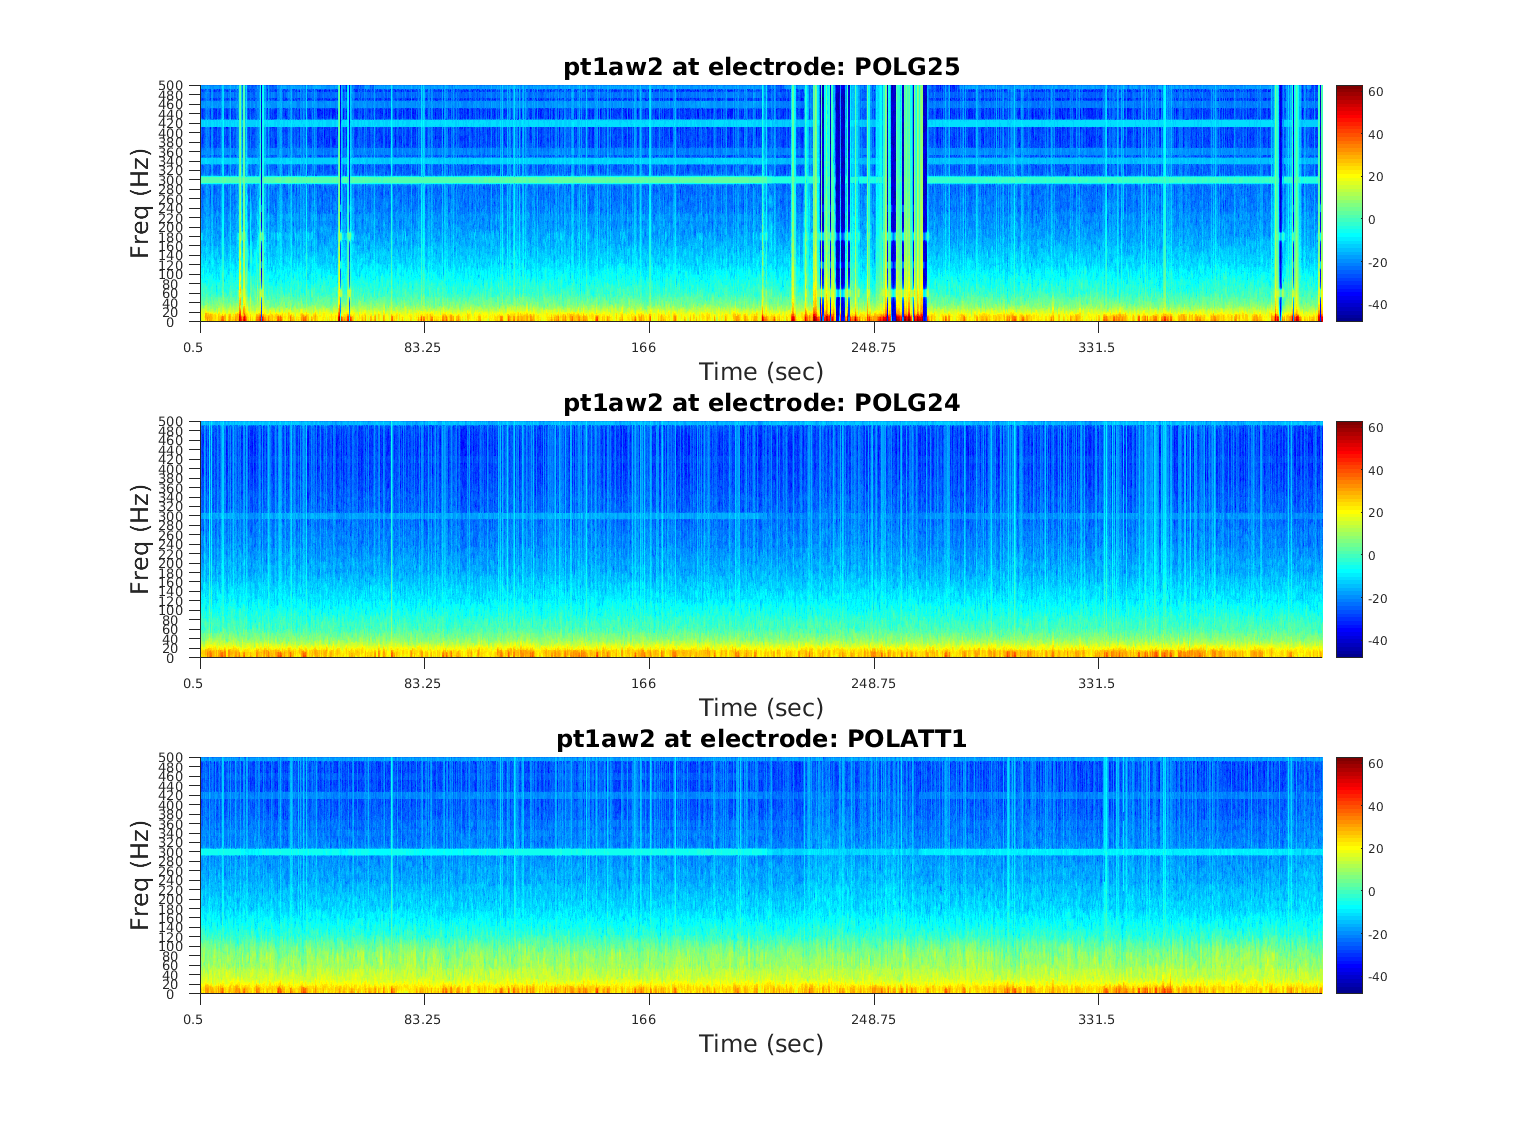
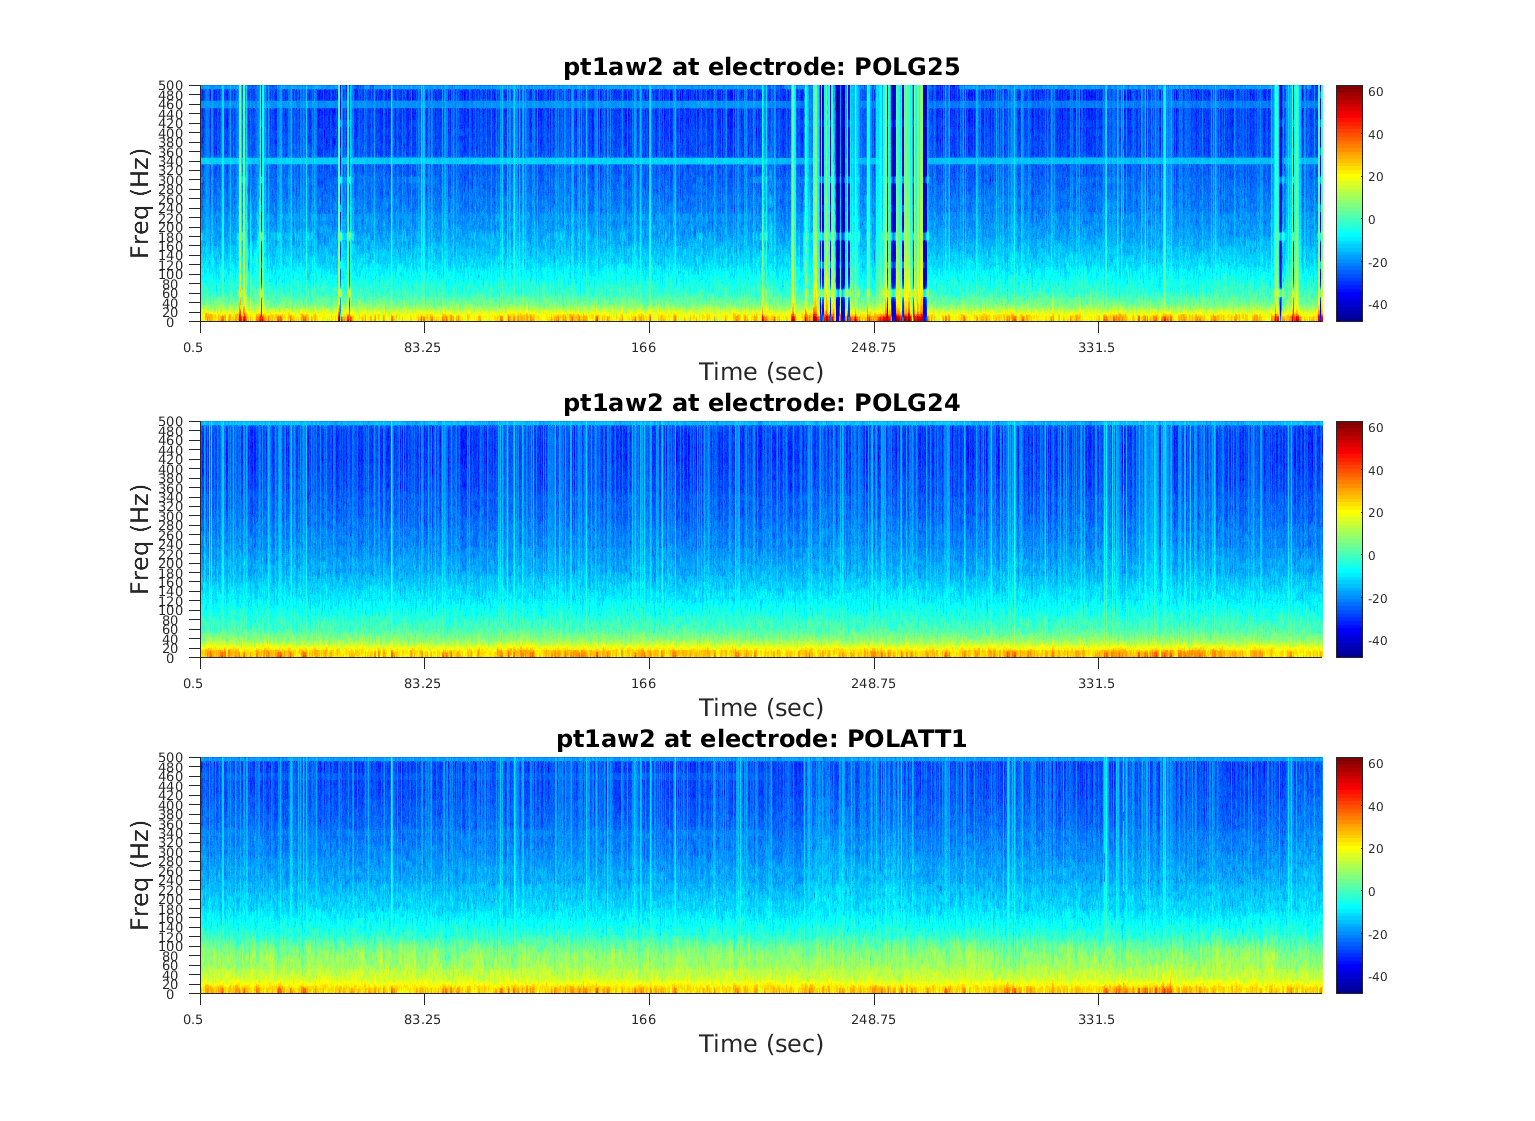
Adding commit on implementing a broad band filter.

diff --git a/fragility_dataanalysis/server/devVaryingWindows/runSignalPreprocessing.m b/fragility_dataanalysis/server/devVaryingWindows/runSignalPreprocessing.m
@@ -1,0 +1,215 @@
+% function: computeSpectralPower
+% By: Adam Li | 3/21/17
+% Description: Used to compute power for an eeg wave
+%
+%
+function runSignalPreprocessing(patient, typeTransform)
+    if nargin==0
+        patient = 'pt1aw2';
+        typeTransform = 'fourier';
+    end
+
+    %% Initialization
+    % data directories to save data into - choose one
+    eegRootDirServer = '/home/ali/adamli/fragility_dataanalysis/';     % work
+    % eegRootDirHome = '/Users/adam2392/Documents/MATLAB/Johns Hopkins/NINDS_Rotation';  % home
+    eegRootDirHome = '/Volumes/NIL_PASS/';
+    eegRootDirJhu = '/home/WIN/ali39/Documents/adamli/fragility_dataanalysis/';
+    % Determine which directory we're working with automatically
+    if     ~isempty(dir(eegRootDirServer)), rootDir = eegRootDirServer;
+    elseif ~isempty(dir(eegRootDirHome)), rootDir = eegRootDirHome;
+    elseif ~isempty(dir(eegRootDirJhu)), rootDir = eegRootDirJhu;
+    else   error('Neither Work nor Home EEG directories exist! Exiting'); end
+
+    addpath(genpath(fullfile(rootDir, '/fragility_library/')));
+    addpath(genpath(fullfile(rootDir, '/eeg_toolbox/')));
+    addpath(rootDir);
+
+    %- 0 == no filtering
+    %- 1 == notch filtering
+    %- 2 == adaptive filtering
+    FILTER_RAW = 2; 
+    winSize = 500;
+    stepSize = 250;
+
+    % set patientID and seizureID
+    patient_id = patient(1:strfind(patient, 'seiz')-1);
+    seizure_id = strcat('_', patient(strfind(patient, 'seiz'):end));
+    seeg = 1;
+    if isempty(patient_id)
+        patient_id = patient(1:strfind(patient, 'sz')-1);
+        seizure_id = patient(strfind(patient, 'sz'):end);
+        seeg = 0;
+    end
+    if isempty(patient_id)
+        patient_id = patient(1:strfind(patient, 'aslp')-1);
+        seizure_id = patient(strfind(patient, 'aslp'):end);
+        seeg = 0;
+    end
+    if isempty(patient_id)
+        patient_id = patient(1:strfind(patient, 'aw')-1);
+        seizure_id = patient(strfind(patient, 'aw'):end);
+        seeg = 0;
+    end
+    buffpatid = patient_id;
+    if strcmp(patient_id(end), '_')
+        patient_id = patient_id(1:end-1);
+    end
+
+    % array of frequency bands
+    freqBandAr(1).name    = 'delta';
+    freqBandAr(1).rangeF  = [2 4];          %[2 4]
+    freqBandAr(2).name    = 'theta';
+    freqBandAr(2).rangeF  = [4 8];          %[4 8]
+    freqBandAr(3).name    = 'alpha';
+    freqBandAr(3).rangeF  = [8 16];         %[8 12]
+    freqBandAr(4).name    = 'beta';
+    freqBandAr(4).rangeF  = [16 32];        %[12 30]
+    freqBandAr(5).name    = 'low gamma';
+    freqBandAr(5).rangeF  = [32 80];        %[30 70]
+    freqBandAr(6).name    = 'high gamma';
+    freqBandAr(6).rangeF  = [80 160];       %[70 150]
+    freqBandAr(7).name    = 'HFO';
+    freqBandAr(7).rangeF  = [160 400];      %[150 400]
+
+
+    % set the frequency bands to certain ranges for plotting
+    for iFB=1:length(freqBandAr),
+        freqBandAr(iFB).centerF = mean(freqBandAr(iFB).rangeF);
+        %freqBandAr(iFB).label   = sprintf('%s-%.0fHz', freqBandAr(iFB).name(1:[ min( [length(freqBandAr(iFB).name), 6] )]), freqBandAr(iFB).centerF);
+        freqBandAr(iFB).label   = sprintf('%s [%.0f-%.0f Hz]', freqBandAr(iFB).name, freqBandAr(iFB).rangeF);
+    end
+    
+    %% DEFINE OUTPUT DIRS AND CLINICAL ANNOTATIONS
+    %- Edit this file if new patients are added.
+    [included_channels, ezone_labels, earlyspread_labels,...
+        latespread_labels, resection_labels, fs, ...
+        center] ...
+                = determineClinicalAnnotations(patient_id, seizure_id);
+    patient_id = buffpatid;
+    
+    % set directory to save computed data
+    if FILTER_RAW == 1
+        toSaveDir = fullfile(strcat('./serverdata/spectral_analysis/', typeTransform, '/notchharmonics_win', num2str(winSize), ...
+            '_step', num2str(stepSize), '_freq', num2str(fs)), patient); % at lab
+    elseif FILTER_RAW == 2
+        toSaveDir = fullfile(strcat('./serverdata/spectral_analysis/', typeTransform, '/adaptivefilter_win', num2str(winSize), ...
+            '_step', num2str(stepSize), '_freq', num2str(fs)), patient); % at lab
+    else 
+        toSaveDir = fullfile(strcat('./serverdata/spectral_analysis/', typeTransform, '/nofilter_', 'win', num2str(winSize), ...
+            '_step', num2str(stepSize), '_freq', num2str(fs)), patient); % at lab
+    end
+
+    % create directory if it does not exist
+    if ~exist(toSaveDir, 'dir')
+        mkdir(toSaveDir);
+    end
+
+    % put clinical annotations into a struct
+    clinicalLabels = struct();
+    clinicalLabels.ezone_labels = ezone_labels;
+    clinicalLabels.earlyspread_labels = earlyspread_labels;
+    clinicalLabels.latespread_labels = latespread_labels;
+    clinicalLabels.resection_labels = resection_labels;
+    
+    if seeg
+        patient = strcat(patient_id, seizure_id);
+        eegDir = fullfile(rootDir, 'data', center);
+        data_struct = load(fullfile(eegDir, patient_id, patient));
+    else
+        eegDir = fullfile(rootDir, 'data', center);
+        data_struct = load(fullfile(eegDir, patient, patient));
+    end
+    
+    [numChans, eventDurationMS] = size(data_struct.data);
+    elec_labels = data_struct.elec_labels;
+    seizure_start = data_struct.seiz_start_mark;
+    seizure_end = data_struct.seiz_end_mark;
+    data = data_struct.data;
+    tWin = 0;
+    
+    if strcmp(typeTransform, 'morlet')
+        %%- gets the range of frequencies using eeganalparams
+        waveletFreqs = eeganalparams('freqs');
+        waveletWidth = eeganalparams('width');
+        transformArgs.waveletWidth = waveletWidth;
+        transformArgs.waveletFreqs = waveletFreqs;
+    elseif strcmp(typeTransform, 'fourier')
+        transformArgs.winSize = 500;
+        transformArgs.stepSize = 250;
+        transformArgs.mtBandWidth = 4;
+        transformArgs.mtFreqs = [];
+    end
+    
+    %% Compute Spectral Computation
+    for iChan=1:numChans
+        eegWave = data(iChan, :);
+        
+        [powerMat, phaseMat, freqs, t_sec] = computeSpectralPower(eegWave, fs, typeTransform, transformArgs);
+        
+        powerMat = squeeze(powerMat);
+        phaseMat = squeeze(phaseMat);
+        
+        powerMatZ = zeros(size(powerMat));
+        [numFreqs, numTime] = size(powerMat);
+        iF  = 1:numFreqs; % # of freqs.
+        iT  = 1:numTime; % # of time points
+
+        %% Z-SCORE POWER MATRIX
+        % indices of the powerMat to Z-score wrt
+        for iF = 1:length(freqs),
+            allVal = reshape(powerMat(iF,iT),length(1)*length(iT),1); %allVal for particular chan and freq
+            mu = mean(allVal); stdev = std(allVal);
+
+            % create the power matrix
+            powerMatZ(iF,iT) = (powerMat(iF,iT)-mu)/stdev;
+            if sum(isnan(powerMatZ(iF,iT)))>0
+                disp('Wrong');
+                keyboard;
+            end
+        end
+     
+        %%- condense matrices
+        rangeFreqs = reshape([freqBandAr.rangeF], 2, 7)';
+        if strcmp(typeTransform, 'morlet')
+            %%- TIME BIN POWERMATZ WITH WINDOWSIZE AND OVERLAP
+            powerMat = timeBinSpectrogram(powerMat, winSize, stepSize);
+            phaseMat = timeBinSpectrogram(phaseMat, winSize, stepSize);
+
+            %%- FREQUENCY BIN WITH FREQUENCY BANDS
+%             powerMat = freqBinSpectrogram(powerMat, rangeFreqs, waveletFreqs);
+%             phaseMat = freqBinSpectrogram(phaseMat, rangeFreqs, waveletFreqs);
+        elseif strcmp(typeTransform, 'multitaper')
+            disp('doing multitaper');
+            %%- FREQUENCY BIN
+%             powerMatZ = freqBinSpectrogram(powerMatZ, rangeFreqs, waveletFreqs);
+        end
+
+        % create 2D array to show time windows occupied by each index of new
+        % power matrix
+        tWin = zeros(size(powerMat, 3), 2);
+        tWin(:,1) = 0 : stepSize : eventDurationMS-winSize;
+        tWin(:,2) = winSize : stepSize : eventDurationMS;
+
+        % create to save data struct
+        chanData = struct();
+        chanData.FILTERTYPE = FILTER_RAW;
+        chanData.eegWave = eegWaveV;
+        chanData.chanNum = iChan;
+        chanData.chanStr = elec_labels{iChan};
+        chanData.freqBands = {freqBandAr.name};
+        chanData.powerMat = squeeze(powerMat);
+        chanData.powerMatZ = squeeze(powerMatZ);
+        chanData.phaseMat = squeeze(phaseMat);
+        chanData.seizure_end = seizure_end;
+        chanData.seizure_start = seizure_start;
+        chanData.winSize = winSize;
+        chanData.stepSize = stepSize;
+        chanData.waveT = tWin;
+        chanData.freqs = freqs;
+
+        %%- SAVING DIR PARAMETERS
+        chanFileName = strcat(num2str(iChan), '_', elec_labels{iChan}, '.mat');
+        saveChannel(toSaveDir, chanFileName, chanData); 
+    end
+end

diff --git a/fragility_dataanalysis/runSpectralComputation.m b/fragility_dataanalysis/runSpectralComputation.m
@@ -143,16 +143,20 @@ for iPat=1:length(patients)
     [included_channels, ezone_labels, earlyspread_labels, latespread_labels, resection_labels, frequency_sampling, center] ...
             = determineClinicalAnnotations(patient_id, seizure_id);
         
-    if ~BP_FILTER_RAW
-        toSaveDir = fullfile(strcat('./serverdata/spectral_analysis/', typeTransform, '/nofilter_', 'win', num2str(winSize), ...
-            '_step', num2str(stepSize), '_freq', num2str(frequency_sampling)), patient); % at lab
-    else
+        
+    if BP_FILTER_RAW == 1
         toSaveDir = fullfile(strcat('./serverdata/spectral_analysis/', typeTransform, '/win', num2str(winSize), ...
             '_step', num2str(stepSize), '_freq', num2str(frequency_sampling)), patient); % at lab
-    end
-    toSaveDir = fullfile(strcat('./serverdata/spectral_analysis/', typeTransform, '/notchharmonics_win', num2str(winSize), ...
+        toSaveDir = fullfile(strcat('./serverdata/spectral_analysis/', typeTransform, '/notchharmonics_win', num2str(winSize), ...
             '_step', num2str(stepSize), '_freq', num2str(frequency_sampling)), patient); % at lab
-    
+    elseif BP_FILTER_RAW == 2
+        toSaveDir = fullfile(strcat('./serverdata/spectral_analysis/', typeTransform, '/adaptivefilter_win', num2str(winSize), ...
+            '_step', num2str(stepSize), '_freq', num2str(frequency_sampling)), patient); % at lab
+    else 
+        toSaveDir = fullfile(strcat('./serverdata/spectral_analysis/', typeTransform, '/nofilter_', 'win', num2str(winSize), ...
+            '_step', num2str(stepSize), '_freq', num2str(frequency_sampling)), patient); % at lab
+    end
+
     if ~exist(toSaveDir, 'dir')
         mkdir(toSaveDir);
     end
@@ -189,12 +193,15 @@ for iPat=1:length(patients)
             preFiltStrShort  = '_BPfilt';
             % notch filter to eliminate 60 Hz noise
             eegWaveV = buttfilt(eegWaveV,[59.5 60.5],resampledrate,'stop',1); %-filter is overkill: order 1 --> 25 dB drop (removing 5-15dB peak)
-            % apply band notch filter to eeg data
             eegWaveV = buttfilt(eegWaveV,[119.5 120.5], frequency_sampling,'stop',1);
-            % apply band notch filter to eeg data
             eegWaveV = buttfilt(eegWaveV,[179.5 180.5], frequency_sampling,'stop',1);
-            % apply band notch filter to eeg data
             eegWaveV = buttfilt(eegWaveV,[239.5 240.5], frequency_sampling,'stop',1);
+            eegWaveV = buttfilt(eegWaveV,[299.5 300.5], frequency_sampling,'stop',1);
+            eegWaveV = buttfilt(eegWaveV,[359.5 360.5], frequency_sampling,'stop',1);
+            eegWaveV = buttfilt(eegWaveV,[419.5 420.5], frequency_sampling,'stop',1);
+            eegWaveV = buttfilt(eegWaveV,[479.5 480.5], frequency_sampling,'stop',1);
+        elseif BP_FILTER_RAW == 2
+            eegWaveV = removePLI_multichan(eegWaveV, frequency_sampling, 7, [50,0.01,4], [0.1,2,4], 2);
         else
             preFiltFreq      = []; %keep this empty to avoid any filtering of the raw data
             preFiltType      = 'stop';

diff --git a/fragility_dataanalysis/fragility_library/preprocessing/computeSpectralPower.m b/fragility_dataanalysis/fragility_library/preprocessing/computeSpectralPower.m
@@ -1,0 +1,66 @@
+% function: computeSpectralPower
+% By: Adam Li | 3/21/17
+% Description: Used to compute power for an eeg wave
+%
+% Example:
+% transformArgs.winSize = 500;
+% transformArgs.stepSize = 250;
+% transformArgs.mtBandWidth = 4;
+% transformArgs.mtFreqs = [];
+% [powerMat, phaseMat] = computeSpectralPower(eegWave, fs, freqs, 'fourier', transformArgs);
+% 
+function [powerMat, phaseMat, freqs, t_sec] = computeSpectralPower(eegWave, fs, typeTransform, transformArgs)
+    %% Initial Argument Checking
+    %- check user entered in correct transforms
+    transforms = {'morlet', 'fourier'};
+    if ~strmatch(typeTransform, transforms)
+        disp('Enter in either morlet or fourier as a transform.');
+    end
+    
+    %- intialize buffer region if transform calls for it
+    BufferMS = 1000 * fs/1000; % buffer region of 1 second (milliseconds)
+    
+    [N, T] = size(eegWave);
+    disp(['Number of channels: ', num2str(N)]);
+    disp(['Number of time points: ', num2str(T)]);
+    %% Perform spectral computation
+    if strcmp(typeTransform, 'morlet')
+        %- extract arguments
+        waveletWidth = transformArgs.waveletWidth;
+        freqs = transformArgs.waveletFreqs;
+        
+        % add buffer to the eeg wave
+        eegWave = [zeros(1, BufferMS), eegWave, zeros(1, BufferMS)];
+        
+        %%- i. multiphasevec3: get the phase and power for events x frequency x duration of time for each channel
+        [rawPhase,rawPow] = multiphasevec3(freqs,eegWave,fs,waveletWidth);
+
+        %%- ii. REMOVE LEADING/TRAILING buffer areas from power, phase, eegWave, timeVector
+        rawPow   = rawPow(:,:,BufferMS+1:end-BufferMS);
+        rawPhase = rawPhase(:,:,BufferMS+1:end-BufferMS);
+        
+        %%- iii. make powerMat, phaseMat and set time and freq axis
+        % chan X event X freq X time
+        % make power 10*log(power)
+        powerMat = 10*log10(rawPow); % log transform the power
+        phaseMat = rawPhase;
+    elseif strcmp(typeTransform, 'fourier')
+        winSize = transformArgs.winSize;
+        stepSize = transformArgs.stepSize;
+        mtBandWidth = transformArgs.mtBandWidth;        % number of times to avge the FFT
+        mtFreqs = transformArgs.mtFreqs;
+        
+        %%- i. eeg_mtwelch2: get the phase and power using multitaper
+        % parameters for multitaper FFT:
+        % sampling freq, overlap, stepsize, bandwidth
+        T = winSize/1000;       % the window size in milliseconds
+        overlap = (winSize - stepSize)/winSize; % in percentage
+
+        %%- multitaper FFT 
+        [rawPowBase, freqs, t_sec,rawPhaseBase] = eeg_mtwelch2(eegWave, fs, T, overlap, mtBandWidth, mtFreqs, 'eigen');
+
+        %%- ii. make powerMat, phaseMat and set time and freq axis
+        powerMat = 10*log10(rawPowBase);
+        phaseMat = rawPhaseBase;
+    end
+end

diff --git a/fragility_dataanalysis/determineClinicalAnnotations.m b/fragility_dataanalysis/determineClinicalAnnotations.m
@@ -380,10 +380,10 @@ function [included_channels, ezone_labels, ...
     elseif strcmp(patient_id, 'pt13')
         included_channels = [1:36 39:40 43:66 69:74 77 79:94 96:103 105:130];
         
-        ezone_labels = {'POLFP1', 'POLFP2', 'POLFP9', 'POLFP10', 'POLFP17', 'POLFP18'};
-        earlyspread_labels = {'POLAP3', 'POLMF6', 'POLFP25', 'POLFP26', 'POLFP27', 'POLFP19', 'POLFP11', ...
-            'POLFP12', 'POLFP3', 'POLFP4', 'POLFP5'};
-        latespread_labels = {'POLFP4', 'POLRPPIH6', 'POLFPPIH5', 'POLRPPIH4'};
+        ezone_labels = {'POLG1', 'POLG2', 'POLG9', 'POLG10', 'POLG17', 'POLG18'};
+        earlyspread_labels = {'POLAP3', 'POLMF6', 'POLG25', 'POLG26', 'POLG27', 'POLG19', 'POLG11', ...
+            'POLG12', 'POLG3', 'POLG4', 'POLFP5'};
+        latespread_labels = {'POLG4', 'POLRPPIH6', 'POLFPPIH5', 'POLRPPIH4'};
         
         center = 'nih';
         success_or_failure = 1;

diff --git a/fragility_dataanalysis/runSpectPlots.m b/fragility_dataanalysis/runSpectPlots.m
@@ -51,6 +51,7 @@ typeTransform = 'morlet';
 typeTransform = 'fourier';
 
 figDir = './figures/spectralanalysis/notchfilterharmonics/';
+% figDir = './figures/spectralanalysis/adaptivefilter/';
 
 %% array of frequency bands
 freqBandAr(1).name    = 'delta';
@@ -173,6 +174,10 @@ for p=1:length(patients)
     
     spectDir = fullfile(serverDir, strcat('spectral_analysis/', typeTransform, '/notchharmonics_win', num2str(winSize), ...
             '_step', num2str(stepSize), '_freq', num2str(frequency_sampling)), patient); % at lab
+
+%     spectDir = fullfile(serverDir, strcat('spectral_analysis/', typeTransform, '/adaptivefilter_win', num2str(winSize), ...
+%             '_step', num2str(stepSize), '_freq', num2str(frequency_sampling)), patient); % at lab
+        
     if ~isempty(TEST_DESCRIP)
         spectDir = fullfile(spectDir, TEST_DESCRIP);
     end

diff --git a/fragility_dataanalysis/server/devVaryingWindows/broadbandFilter.m b/fragility_dataanalysis/server/devVaryingWindows/broadbandFilter.m
@@ -1,0 +1,3 @@
+%
+% Description
+% 1. Take spectral power computed 
